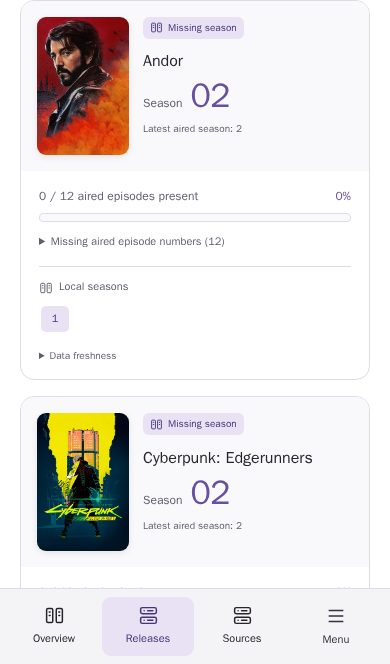
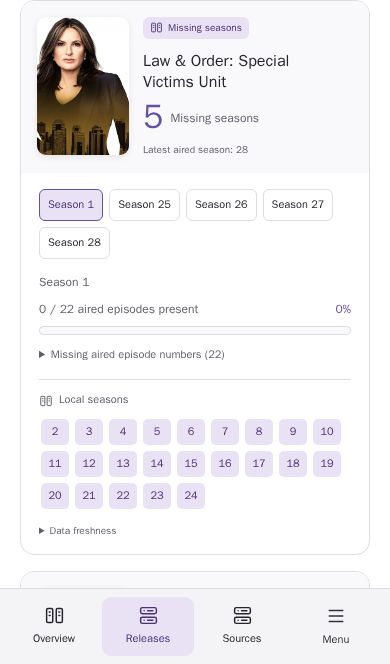
docs: explain grouped seasons and refresh responsive card screenshot

diff --git a/web/tests/foundation.spec.ts b/web/tests/foundation.spec.ts
@@ -41,10 +41,24 @@ test('foundation is usable, bilingual and persists preferences', async ({
         exact: true,
       });
       await expect(gaps.getByRole('status')).toHaveCount(0);
-      const firstCard = gaps.locator('.gap-list > li').first();
-      if (await firstCard.count())
+      const multiSeason = gaps
+        .locator('.gap-list > li')
+        .filter({ has: page.locator('.season-selector') })
+        .first();
+      const firstCard = (await multiSeason.count())
+        ? multiSeason
+        : gaps.locator('.gap-list > li').first();
+      if (await firstCard.count()) {
         await firstCard.evaluate((el) => el.scrollIntoView({ block: 'start' }));
-      else await gaps.evaluate((el) => el.scrollIntoView({ block: 'start' }));
+        await firstCard.evaluate(async (el) => {
+          const img = el.querySelector('img');
+          if (img && !img.complete)
+            await new Promise<void>((resolve) => {
+              img.addEventListener('load', () => resolve(), { once: true });
+              img.addEventListener('error', () => resolve(), { once: true });
+            });
+        });
+      } else await gaps.evaluate((el) => el.scrollIntoView({ block: 'start' }));
     }
     await page.screenshot({
       path: `../docs/screenshots/${testInfo.project.name}.png`,

diff --git a/docs/superpowers/plans/2026-11-15-grouped-season-cards.md b/docs/superpowers/plans/2026-11-15-grouped-season-cards.md
@@ -2,7 +2,7 @@
 
 > **For agentic workers:** Execute inline with superpowers:executing-plans and a fresh final read-only review.
 
-**Goal:** Show one series card per tab with selectable seasons, and auto-fit cards to available width.
+**Goal:** Show one series card per tab with selectable seasons, and fit cards automatically to available width.
 **Architecture:** Opt-in grouped store/API output before pagination; selected-season detail inside existing card; fluid CSS Grid and wider Releases container.
 **Tech Stack:** Existing Go/PostgreSQL/Svelte/TS6, no new dependencies.
 **Spec:** ../specs/2026-11-15-grouped-season-cards-design.md
@@ -11,7 +11,7 @@
 
 Do not group merely by display name or split seasons across pages. Preserve flat API compatibility and original per-season counts; grouped pagination counts titles. Selected coverage/episode numbers must belong to the labeled season, and selection must recover when polling removes that season. Review states stay uncertain. Verify one/two/three-column layouts by resizing the same window; long names and phone widths must fit.
 
-- [ ] Add failing store/API tests for grouped paging, ordering, totals, compatibility and invalid grouping.
-- [ ] Add failing browser tests for one grouped card, selecting another season, polling selection recovery and dynamic resize.
-- [ ] Implement grouped output and responsive selectable-season cards; verify relevant checks/full suite and commit small changes.
-- [ ] Fresh review, deploy tested image, inspect live grouped cards and different widths, update docs/screenshots and commit locally.
+- [x] Add failing store/API tests for grouped paging, ordering, totals, compatibility and invalid grouping.
+- [x] Add failing browser tests for one grouped card, selecting another season, polling selection recovery and dynamic resize.
+- [x] Implement grouped output and responsive selectable-season cards; verify relevant checks/full suite and commit small changes.
+- [x] Fresh review, deploy tested image, inspect live grouped cards and different widths, update docs/screenshots and commit locally.

diff --git a/docs/api.md b/docs/api.md
@@ -24,7 +24,7 @@ work returns 202; a busy/disabled worker returns 409. Errors have the form
 | `/api/v1/titles/{id}/metadata` | POST | Manual identity: `{"provider":"tvmaze","id":"..."}`. |
 | `/api/v1/titles/{id}/artwork` | GET, HEAD | Bounded local image proxy/cache, ETag support. |
 | `/api/v1/releases` | GET, HEAD | `{data,progress}`: follows, unmatched titles, upcoming episodes and recent events; `limit`, `offset`. |
-| `/api/v1/releases/gaps` | GET, HEAD | `{items,total,missing,partial,review,limit,offset}`; `kind` = `missing` (default), `partial`, `review`; `q`, `category`, `limit`, `offset`. |
+| `/api/v1/releases/gaps` | GET, HEAD | `{items,total,missing,partial,review,limit,offset}`; `kind` = `missing` (default), `partial`, `review`; optional `group_by=title`; `q`, `category`, `limit`, `offset`. |
 | `/api/v1/releases/refresh` | POST | Queue schedule refresh; `{}`. |
 | `/api/v1/titles/{id}/follow` | GET, HEAD | Follow and baseline state. |
 | `/api/v1/titles/{id}/follow` | POST | `{"enabled":true}` or false. |
@@ -53,3 +53,12 @@ claim (`season`, `aired`, `present` are zero); `reasons` explains uncertainty.
 Counts `missing`/`partial` refer to seasons and `review` to titles for the current
 search/category, before kind selection and pagination. Comparisons read one
 consistent database snapshot and never create events or notifications.
+
+With `group_by=title`, filtering is followed by grouping by stable title ID before
+pagination. Each missing/partial item includes ordered `seasons` records with
+`season`, `kind`, `aired`, `present`, `missing_episodes`. Top-level `season` is zero,
+`aired`/`present` are sums over grouped seasons, and `missing_episodes` is empty
+because episode numbers are season-specific. `total` counts series cards, while
+`missing`/`partial` still count seasons and `review` still counts titles. Review
+items remain one per title. Omitting `group_by` preserves flat per-season output;
+unsupported values return 400. Titles with the same display name retain separate IDs.

diff --git a/docs/library.md b/docs/library.md
@@ -109,13 +109,19 @@ for manual review rather than implying schedule coverage.
 
 Open Releases → **Seasons missing from your library**. Missing seasons have no
 recognized local copies of their aired numbered episodes. Partial seasons have
-some, with a list of the aired episode numbers still absent. Each poster card highlights the season number, latest aired season and an
+some, with a list of the aired episode numbers still absent. Each series gets one poster card per selected tab, with all of its missing or
+partial seasons grouped together. Select a season button inside the card to
+change the explicitly labeled coverage and missing-episode details. Each card
+highlights the season count or number, latest aired season and an
 accessible coverage bar. The poster is existing series artwork, not a claimed
 season-specific cover. Chips show recognized local season numbers, without
 implying those seasons are complete. Expand missing episode numbers to see
 individual tiles, or Data freshness for schedule-check and source-scan times.
-Cards form two columns on desktop and one on phones, with a fallback when artwork
-is unavailable. Review cards show their uncertainty reasons without a coverage bar. Search filters all three tabs; each has its own paginated results.
+Cards automatically fit as many readable columns as the available Releases width
+allows, and fall back to one width-safe column on phones. Artwork has an explicit
+fallback when unavailable. Review cards show their uncertainty reasons without a coverage bar. Search filters all three tabs; each has its own paginated series results. Seasons
+are grouped before pagination, so a series never splits across pages. Tab counters
+still count missing/partial seasons, while page totals count series cards.
 
 This comparison includes historical seasons and works independently of the quiet
 notification baseline. It compares distinct season/episode pairs, so duplicate

diff --git a/docs/library-verification.md b/docs/library-verification.md
@@ -108,3 +108,25 @@ all 22 desktop/mobile browser cases and disposable lifecycle checks passed. The
 same 22 cases passed through the deployed LAN service. Desktop/light, desktop/dark
 and phone screenshots were inspected with actual posters; the refreshed README
 phone screenshot is readable. The healthy running image matched the tested image.
+
+## Grouped series cards and fluid grid — 2026-11-15
+
+The opt-in grouped endpoint and Releases UI now keep every missing/partial season
+for one stable title ID in one series card before pagination. Per-season counts
+remain unchanged: live verification reconciled 45 missing seasons into 15 series cards,
+23 partial seasons into 8 cards, and84 review titles into 84 cards. Every flat season
+identity was present exactly once in grouped output; sums, order and counts agreed.
+SpongeBob's nine missing seasons appeared in one card with individual selection.
+
+CSS Grid now automatically fits readable 340px minimum columns to the Releases
+container, including wide displays. Actual viewport checks reported 4 columns at
+1800px, 2 at 1280px, 1 at 1000px and 1 at 390px, with no horizontal overflow. Other pages
+retain their existing content-width limits. The README phone screenshot shows an
+actual grouped card.
+
+Store/API/browser regressions first reproduced the missing behavior. Full make
+check passed with 24 desktop/mobile tests, 0 Svelte/type errors or warnings, isolated
+PostgreSQL grouping/paging checks and lifecycle/audit checks. A fresh read-only
+review reported no findings. The same 24 browser cases passed on the LAN deployment;
+actual grouped phone and wide-screen cards were visually inspected. No new
+external dependency, migration or provider/notification behavior was introduced.

diff --git a/README.md b/README.md
@@ -9,7 +9,8 @@ videos appear as archive members without extraction.
 
 Follow series/anime for upcoming episodes and provider-reported season premieres.
 Poster cards show missing and partial aired seasons, episode coverage and local
-season chips, with uncertain numbering separated for review. The first successful
+season chips. Multiple seasons share one series card, and the grid fits the
+available window width. Uncertain numbering stays separated for review. The first successful
 schedule fetch establishes a silent baseline. Optional Telegram alerts apply to
 future releases; verifying the bot/chat sends no test message.
 Lookout does not download, play, move, rename or delete media.
@@ -38,7 +39,7 @@ server. Language and theme are saved separately on each device.
 
 | Desktop | Phone |
 | --- | --- |
-| ![Lookout desktop library with metadata and cover artwork](docs/screenshots/desktop.png) | ![Lookout mobile poster cards with missing seasons and episode coverage](docs/screenshots/mobile.png) |
+| ![Lookout desktop library with metadata and cover artwork](docs/screenshots/desktop.png) | ![Lookout mobile series card with grouped seasons and episode coverage](docs/screenshots/mobile.png) |
 
 Configure [read-only library and integrations](docs/library.md). See [deployment](docs/deployment.md), [API](docs/api.md), and
 [development and checks](docs/development.md) for more details.

diff --git a/docs/superpowers/specs/2026-11-15-grouped-season-cards-design.md b/docs/superpowers/specs/2026-11-15-grouped-season-cards-design.md
@@ -6,4 +6,4 @@ Add opt-in `group_by=title` to the gap endpoint. Group by stable title ID after 
 
 One shared poster/title per series; multiple missing/partial seasons appear as accessible selectable season chips inside that card. Selecting a season changes its coverage and missing-number tiles, preserving every season's details. Single-season cards keep their existing presentation. Series with identical names but different IDs remain distinct.
 
-Use CSS Grid auto-fit with a readable minimum card width, fluid columns and a width-safe single column on narrow phones. Expand only the Releases page beyond the old880px cap so wide displays can fit three or more cards. Other views keep their current widths. No new dependencies or NAS/provider/Telegram behavior changes.
+Use CSS Grid auto-fill with a readable minimum card width, fluid columns and a width-safe single column on narrow phones. Expand only the Releases page beyond the old880px cap so wide displays can fit three or more cards. Other views keep their current widths. No new dependencies or NAS/provider/Telegram behavior changes.
